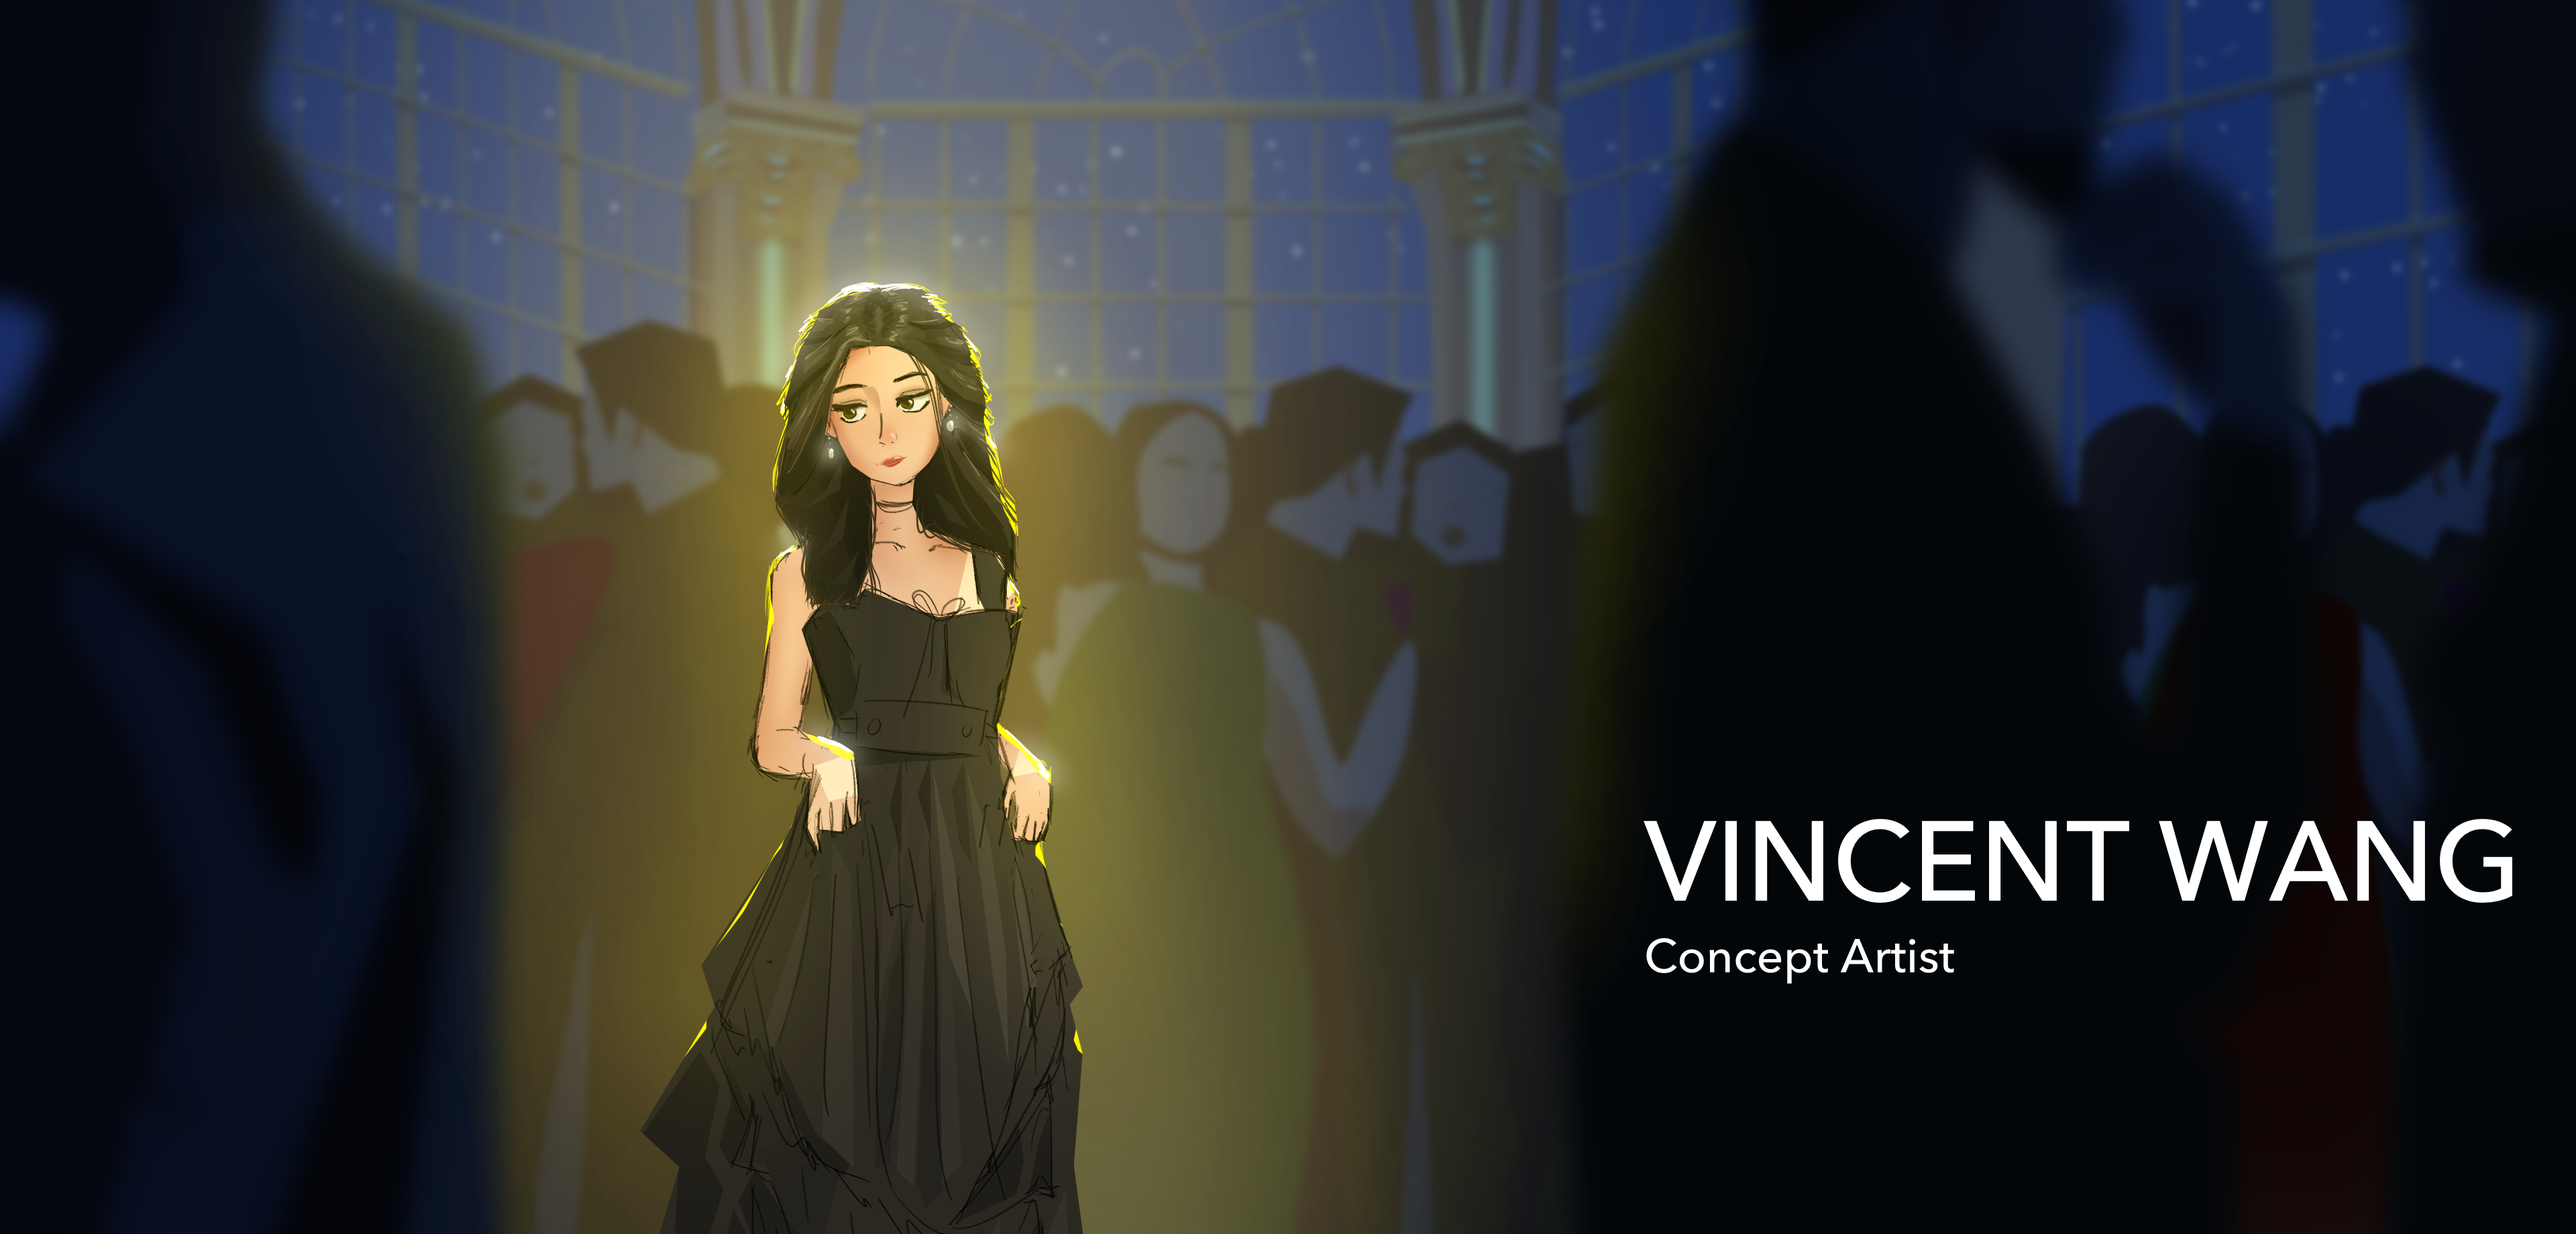
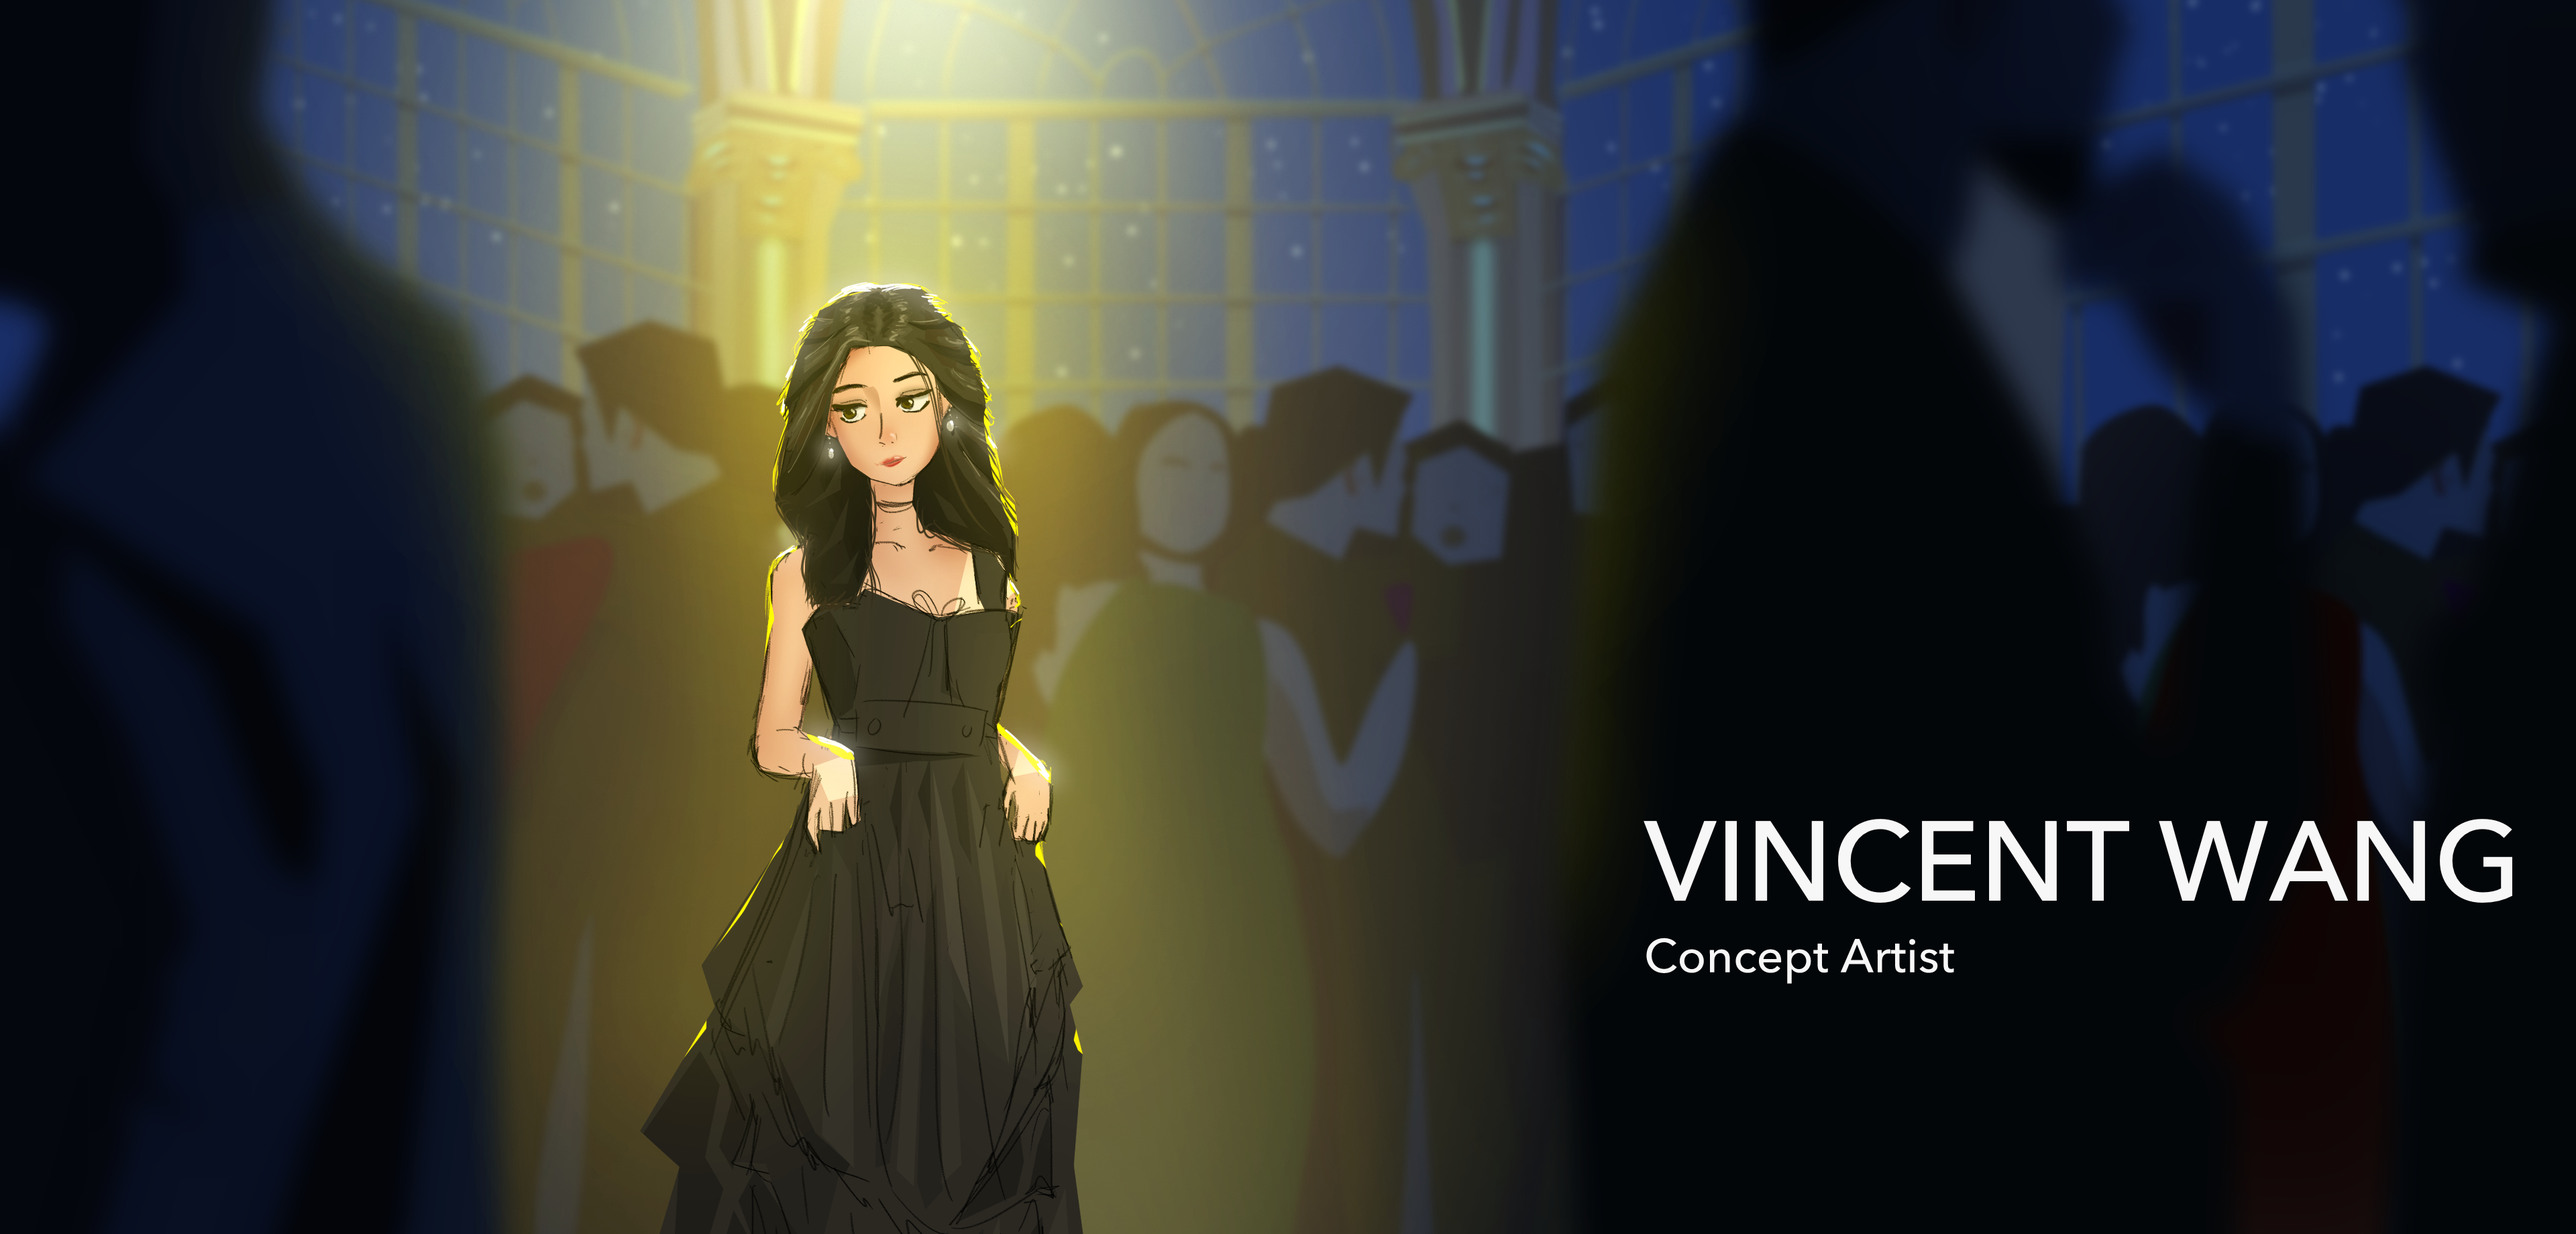
add update arts

Changed region(s): [[0.1875, 0.0, 0.5, 0.3408]]

diff --git a/css/art_style.css b/css/art_style.css
@@ -34,6 +34,59 @@ body {
   font-weight: 300;
 }
 
+.dropdown {
+  position: relative;
+}
+
+.dropdown-menu {
+  position: absolute;
+  top: 100%;
+  right: 0;
+  left: auto;
+  min-width: 180px;
+
+  background: rgba(20, 20, 20, 0.98);
+  border: 1px solid rgba(255, 255, 255, 0.08);
+
+  display: flex;
+  flex-direction: column;
+  padding: 10px 0;
+  margin-top: 8px;
+
+  opacity: 0;
+  visibility: hidden;
+  transform: translateY(6px);
+
+  transition: all 0.2s ease;
+  z-index: 200;
+}
+
+.dropdown-menu a {
+  padding: 10px 16px;
+  color: #eaeaea;
+  white-space: nowrap;
+}
+
+.dropdown-menu a:hover {
+  background: rgba(255, 255, 255, 0.06);
+  opacity: 1; /* override your global hover fade */
+}
+
+.dropdown:hover .dropdown-menu {
+  opacity: 1;
+  visibility: visible;
+  transform: translateY(0);
+}
+
+.dropdown::after {
+  content: "";
+  position: absolute;
+  top: 100%;
+  left: 0;
+  width: 100%;
+  height: 12px;
+}
+
 .nav {
   display: flex;
   gap: 28px;
@@ -49,7 +102,7 @@ body {
 }
 
 .nav a:hover {
-  opacity: 0.6;
+  opacity: 0.8;
 }
 
 .nav a.active {

diff --git a/photo-sports.html b/photo-sports.html
@@ -11,10 +11,10 @@
         <div class="logo" style="font-weight: 400; letter-spacing: 0.04em">VINCENT WANG</div>
 
         <nav class="nav">
-          <a href="art.html" class="active">Art</a>
+          <a href="art.html">Art</a>
 
           <div class="nav-item dropdown">
-            <a href="photography.html">Photography</a>
+            <a href="photography.html" class="active">Photography</a>
             <div class="dropdown-menu">
               <a href="photo-landscape.html">Landscape</a>
               <a href="photo-urban.html">Urban</a>
@@ -24,9 +24,10 @@
           </div>
         </nav>
       </header>
+
       <main id="home">
          <section class="hero">
-            <img src="assets/ballroom-hero.jpg" alt="Featured artwork or photography" />
+            <img src="assets/sports_photo/hero.jpg" alt="Featured artwork or photography" />
          </section>
          <section id="art" class="gallery-section">
             <div class="section-head">
